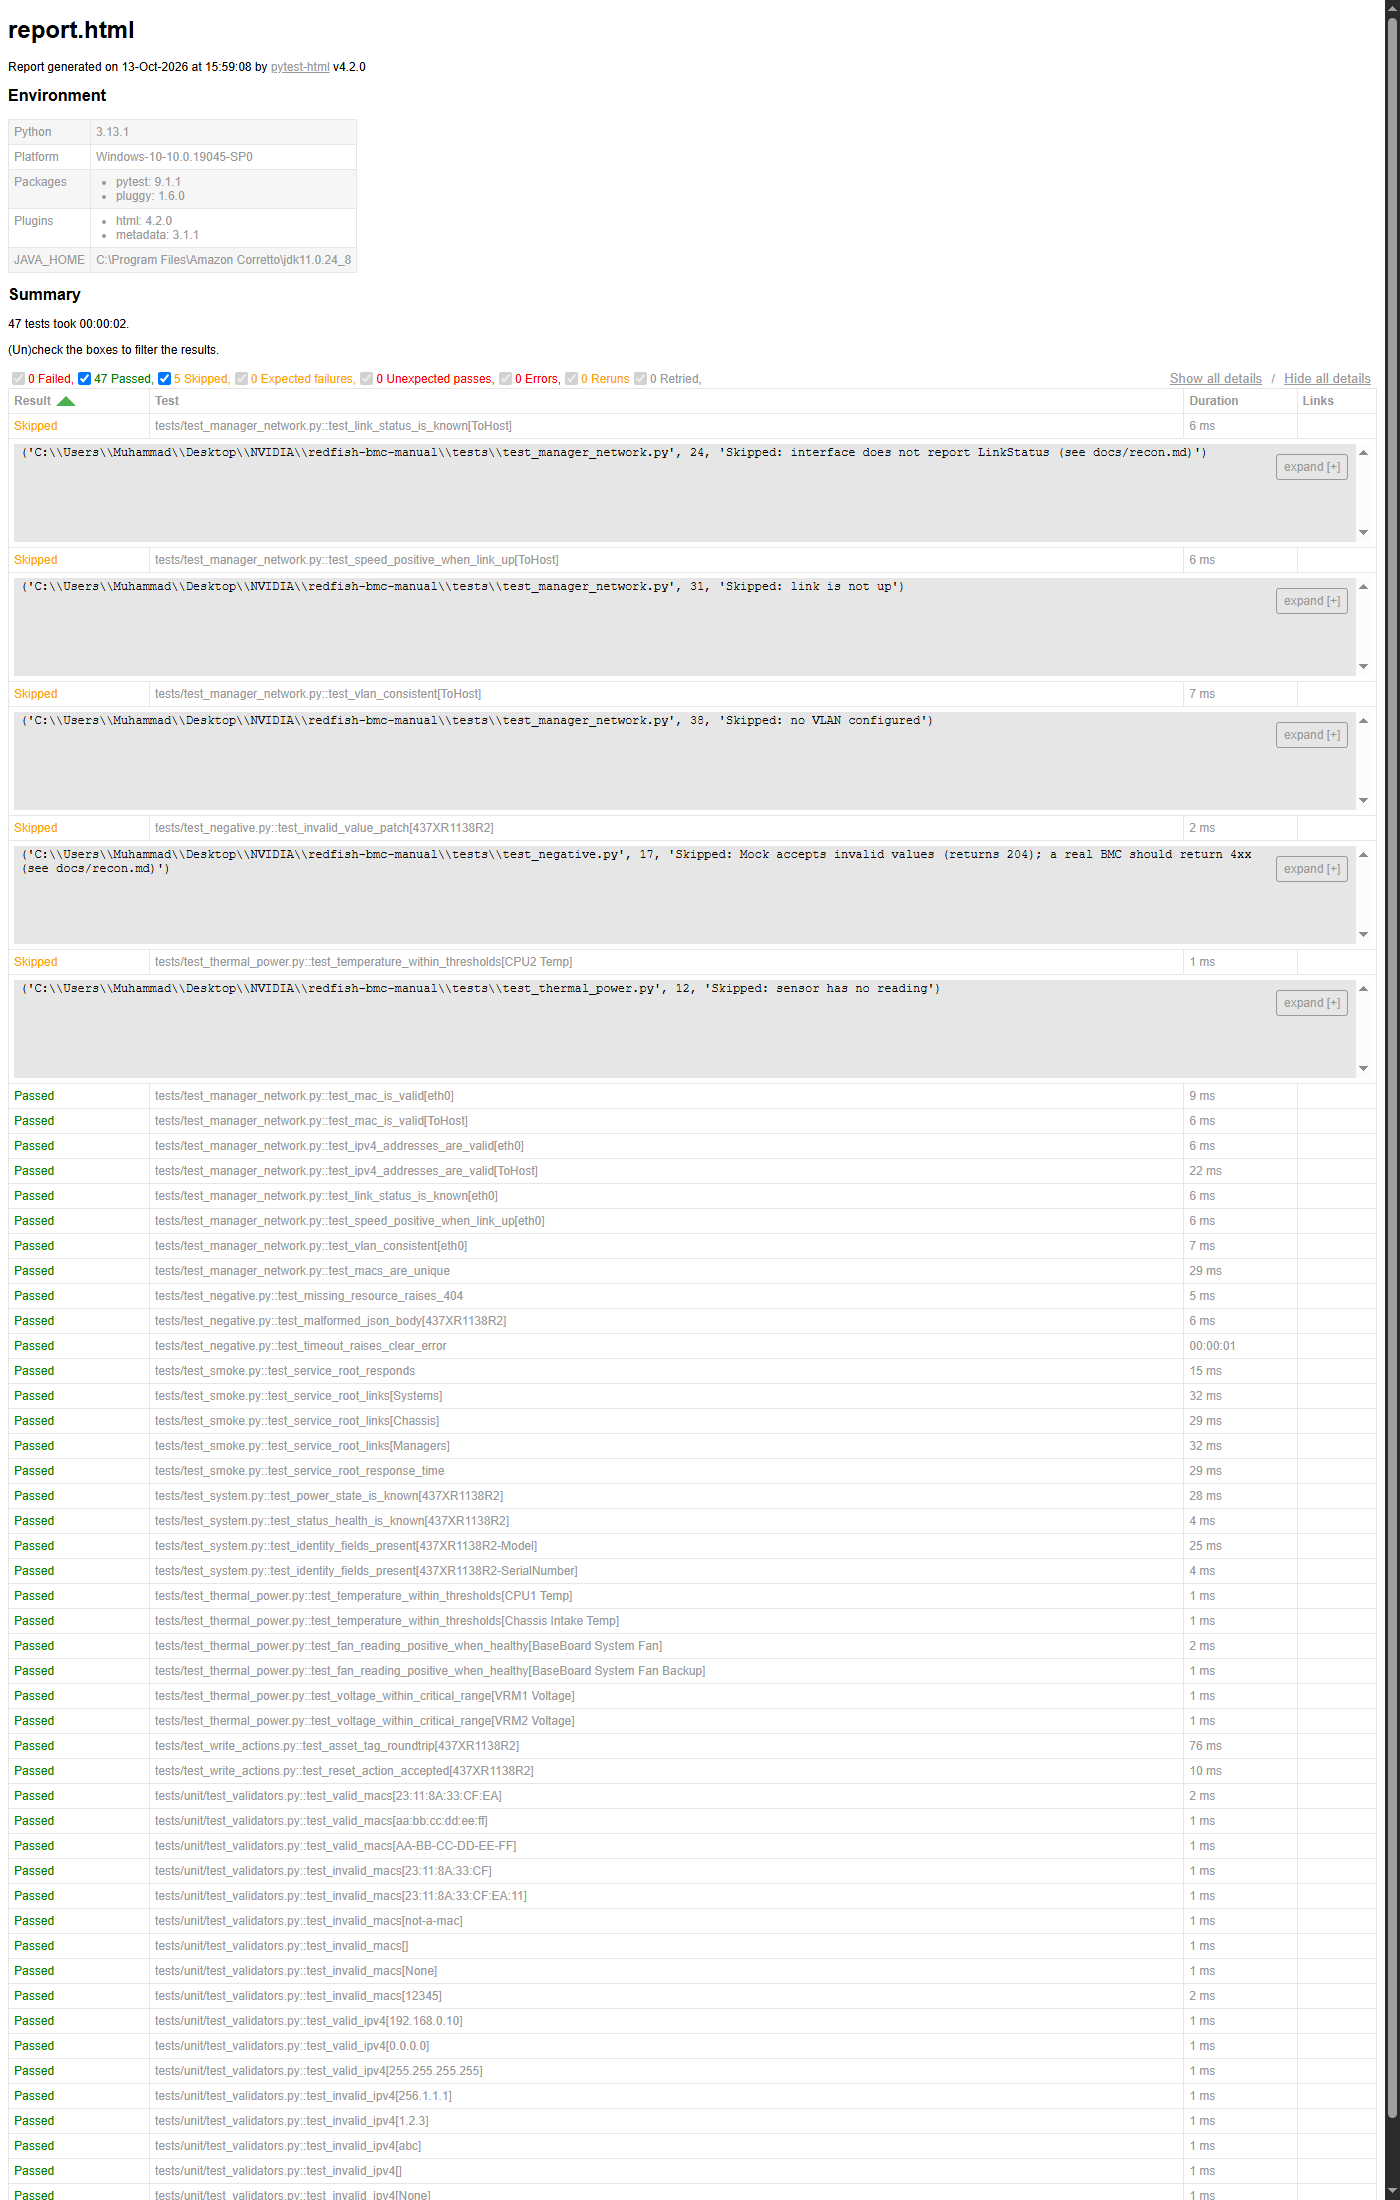
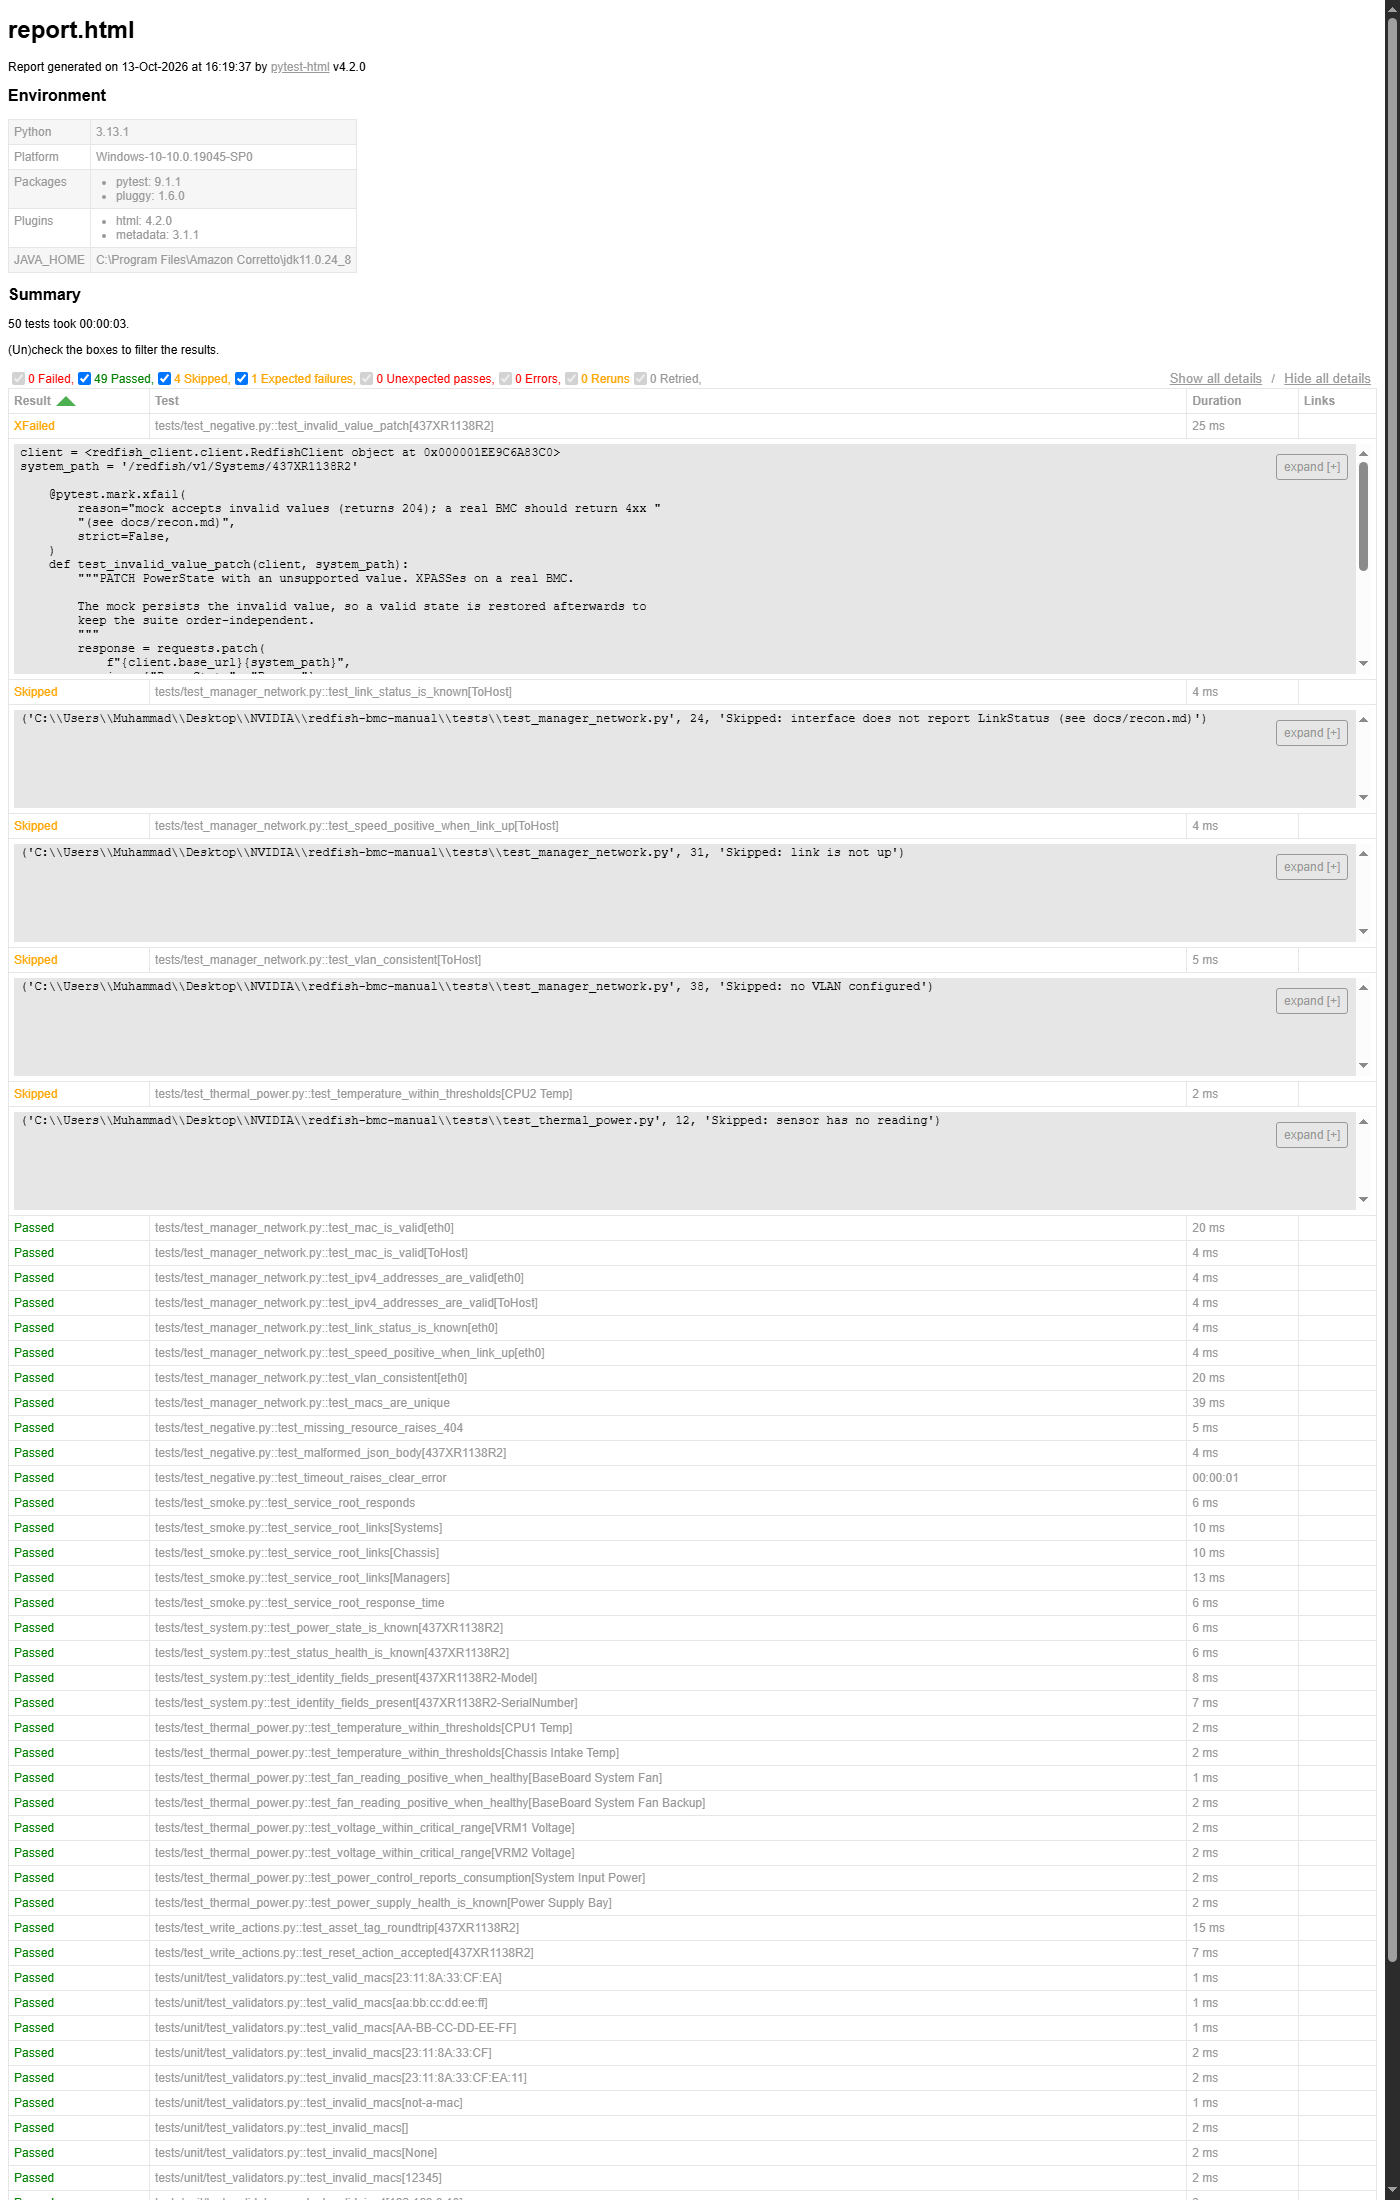
address review: auth/TLS support, PATCH invalid-value xfail with cleanup, power consumption + PSU tests, recon doc, MIT license, pinned deps, strict markers

diff --git a/tests/conftest.py b/tests/conftest.py
@@ -70,6 +70,20 @@ def pytest_unconfigure(config):
             process.kill()
 
 
+def _client_auth():
+    user = os.environ.get("BMC_USER")
+    password = os.environ.get("BMC_PASSWORD")
+    return (user, password) if user is not None else None
+
+
+def _verify_tls():
+    return os.environ.get("BMC_VERIFY_TLS", "true").lower() in ("1", "true", "yes")
+
+
+def _make_client(url):
+    return RedfishClient(url, auth=_client_auth(), verify=_verify_tls())
+
+
 def _short_id(path):
     return path.rstrip("/").rsplit("/", 1)[-1]
 
@@ -85,11 +99,13 @@ def pytest_generate_tests(metafunc):
         "temperature",
         "fan",
         "voltage",
+        "power_control",
+        "power_supply",
     }
     if not (names & interesting):
         return
 
-    client = RedfishClient(_base_url())
+    client = _make_client(_base_url())
 
     if "system_path" in names:
         paths = client.members("/redfish/v1/Systems")
@@ -139,6 +155,25 @@ def pytest_generate_tests(metafunc):
             ids=[v.get("Name", str(i)) for i, v in enumerate(voltages)],
         )
 
+    if "power_control" in names or "power_supply" in names:
+        controls, supplies = [], []
+        for chassis in client.members("/redfish/v1/Chassis"):
+            power = client.get(f"{chassis}/Power")
+            controls += power.get("PowerControl", [])
+            supplies += power.get("PowerSupplies", [])
+        if "power_control" in names:
+            metafunc.parametrize(
+                "power_control",
+                controls,
+                ids=[c.get("Name", str(i)) for i, c in enumerate(controls)],
+            )
+        if "power_supply" in names:
+            metafunc.parametrize(
+                "power_supply",
+                supplies,
+                ids=[s.get("Name", str(i)) for i, s in enumerate(supplies)],
+            )
+
 
 @pytest.fixture(scope="session")
 def bmc_url():
@@ -147,4 +182,4 @@ def bmc_url():
 
 @pytest.fixture(scope="session")
 def client(bmc_url):
-    return RedfishClient(bmc_url)
+    return _make_client(bmc_url)

diff --git a/tests/test_negative.py b/tests/test_negative.py
@@ -13,11 +13,26 @@ def test_missing_resource_raises_404(client):
     assert "404" in str(exc.value)
 
 
+@pytest.mark.xfail(
+    reason="mock accepts invalid values (returns 204); a real BMC should return 4xx "
+    "(see docs/recon.md)",
+    strict=False,
+)
 def test_invalid_value_patch(client, system_path):
-    pytest.skip(
-        "Mock accepts invalid values (returns 204); a real BMC should return 4xx "
-        "(see docs/recon.md)"
+    """PATCH PowerState with an unsupported value. XPASSes on a real BMC.
+
+    The mock persists the invalid value, so a valid state is restored afterwards to
+    keep the suite order-independent.
+    """
+    response = requests.patch(
+        f"{client.base_url}{system_path}",
+        json={"PowerState": "Banana"},
+        timeout=5,
     )
+    try:
+        assert 400 <= response.status_code < 500
+    finally:
+        client.patch(system_path, {"PowerState": "On"})
 
 
 def test_malformed_json_body(client, system_path):

diff --git a/tests/test_thermal_power.py b/tests/test_thermal_power.py
@@ -32,3 +32,15 @@ def test_voltage_within_critical_range(voltage):
         minimum=voltage.get("LowerThresholdCritical"),
         maximum=voltage.get("UpperThresholdCritical"),
     )
+
+
+def test_power_control_reports_consumption(power_control):
+    name = power_control.get("Name", "power control")
+    assert power_control.get("PowerConsumedWatts", 0) >= 0, name
+
+
+def test_power_supply_health_is_known(power_supply):
+    health = power_supply.get("Status", {}).get("Health")
+    assert health in {"OK", "Warning", "Critical"}, (
+        f"unexpected power supply health: {health!r}"
+    )

diff --git a/src/redfish_client/client.py b/src/redfish_client/client.py
@@ -7,10 +7,12 @@ class RedfishClientError(Exception):
 
 
 class RedfishClient:
-    def __init__(self, base_url, timeout=10, session=None):
+    def __init__(self, base_url, timeout=10, auth=None, verify=True, session=None):
         self.base_url = base_url.rstrip("/")
         self.timeout = timeout
         self.session = session or requests.Session()
+        self.session.auth = auth
+        self.session.verify = verify
 
     def _url(self, path):
         if path.startswith("http"):

diff --git a/tests/test_write_actions.py b/tests/test_write_actions.py
@@ -18,5 +18,9 @@ def test_asset_tag_roundtrip(client, system_path):
 
 
 def test_reset_action_accepted(client, system_path):
-    target = client.get(system_path)["Actions"]["#ComputerSystem.Reset"]["target"]
+    reset = client.get(system_path)["Actions"]["#ComputerSystem.Reset"]
+    target = reset["target"]
+    allowed = reset.get("ResetType@Redfish.AllowableValues")
+    if allowed:
+        assert "On" in allowed
     client.post(target, {"ResetType": "On"})

diff --git a/docs/recon.md b/docs/recon.md
@@ -1,0 +1,91 @@
+# Recon — DMTF Redfish Mockup Server
+
+Manual exploration of the mock BMC before writing any tests, so the suite matches the
+real data shapes. Server: `redfishMockupServer.py` (DMTF Redfish-Mockup-Server), mockup
+`public-rackmount1`, `http://127.0.0.1:8000`. RedfishVersion `1.15.0`.
+
+## Resource tree (discovered by following links from `/redfish/v1`)
+
+```
+/redfish/v1
+├── Systems            -> /redfish/v1/Systems/437XR1138R2        (Contoso 3500, PowerState On)
+├── Chassis            -> /redfish/v1/Chassis/1U                 (RackMount)
+│     ├── Thermal      -> .../Thermal   (2 fans, 3 temp sensors)
+│     └── Power        -> .../Power     (PowerControl, 1 supply, 2 voltages)
+├── Managers           -> /redfish/v1/Managers/BMC               (ManagerType BMC)
+│     └── EthernetInterfaces -> .../EthernetInterfaces/{eth0, ToHost}
+├── AccountService, CertificateService, EventService, UpdateService, ...
+```
+
+Resource IDs are **not** hard-coded in tests: they are discovered from the collection
+`Members` arrays so the same tests can run against real hardware.
+
+## Key fields per resource (used by the tests)
+
+**System `/redfish/v1/Systems/437XR1138R2`**
+- `PowerState`: `"On"`. Per the Redfish spec `PowerState` can be `On`, `Off`,
+  `PoweringOn`, or `PoweringOff`; the test asserts membership in exactly that set.
+- Reset action allowable values from `Actions.#ComputerSystem.Reset`:
+  On, ForceOff, GracefulShutdown, GracefulRestart, ForceRestart, Nmi, ForceOn,
+  PushPowerButton
+- `Status.Health`: `"OK"`, `Status.State`: `"Enabled"`
+- `Model`: `"3500"`, `SerialNumber`: `"437XR1138R2"`, `Manufacturer`: `"Contoso"`
+- `AssetTag`: `"Chicago-45Z-2381"` (writable — see write check)
+- Reset action target: `/redfish/v1/Systems/437XR1138R2/Actions/ComputerSystem.Reset`
+
+**Manager `/redfish/v1/Managers/BMC`**
+- `ManagerType`: `"BMC"`, `FirmwareVersion`: `"1.45.455b66-rev4"`
+- `Status.Health`: `"OK"`, `PowerState`: `"On"`
+
+**Manager Ethernet interfaces**
+
+| Field | eth0 | ToHost |
+| --- | --- | --- |
+| `MACAddress` | `23:11:8A:33:CF:EA` | `AA:BB:CC:DD:EE:FF` |
+| `IPv4Addresses[0].Address` | `192.168.0.10` | `192.168.20.55` |
+| `LinkStatus` | `LinkUp` | **(absent)** |
+| `SpeedMbps` | `100` | `100` |
+| `VLAN` | `{VLANEnable:true, VLANId:101}` | *(absent)* |
+| `Status.Health` | `OK` | `OK` |
+
+**Thermal `/redfish/v1/Chassis/1U/Thermal`**
+- `Fans`: 2 entries, `Reading` 2100/2050 RPM, `ReadingUnits` `RPM`, `Status.Health` OK
+- `Temperatures`: 3 entries — CPU1 (ReadingCelsius 41, health OK), CPU2
+  (`Status.State: Disabled`, no reading), Chassis Intake (25, OK)
+- Thresholds present: `UpperThresholdCritical`/`Fatal`/`NonCritical`, `LowerThreshold*`
+
+**Power `/redfish/v1/Chassis/1U/Power`**
+- `PowerControl[0]`: `PowerConsumedWatts` 344, capacity 800
+- `PowerSupplies[0]`: `Status.Health` **`"Warning"`** (not OK), 800W
+- `Voltages`: 2 entries, `ReadingVolts` 12 and 5, health OK
+
+## Write check (PATCH / POST) — done in recon, not deferred
+
+| Operation | Request | Result |
+| --- | --- | --- |
+| PATCH AssetTag | `{"AssetTag":"QA-TEST-TAG"}` | **204**, value persisted (read back confirmed), then restored to original |
+| PATCH value validation | `{"PowerState":"Banana"}` | **204** — mock accepts invalid values, does **not** schema-validate |
+| POST Reset action | `{"ResetType":"On"}` | **204** |
+| GET missing resource | `/redfish/v1/Systems/DOES-NOT-EXIST` | **404** |
+| Malformed JSON body | `{bad json` | **400** |
+
+### Consequences for the test plan
+- `write` tests are viable: PATCH persists and can be restored; POST Reset returns 204.
+- Negative "PATCH invalid value returns 4xx" does **not** fail on the mock (returns 204).
+  A real BMC would reject it, so that case is marked `xfail` with the documented mock
+  limitation and will XPASS on hardware.
+- `ToHost` has no `LinkStatus` field. A test requiring `LinkStatus` on *every* interface
+  must handle the absent field (conditional / documented), not assume it.
+- `PowerSupplies[0].Status.Health` is `"Warning"` in the mock data. Assertions about
+  "health is OK" must be scoped (e.g. fans, not power supplies) or aware of this value,
+  which is a valid Redfish health state.
+
+## Reproduction
+
+```powershell
+# from the Redfish-Mockup-Server clone
+python redfishMockupServer.py -H 127.0.0.1 -p 8000
+```
+
+The mock supports PATCH/POST "to a limited extent" (its README). Findings above reflect
+the `public-rackmount1` mockup shipped in the cloned revision.

diff --git a/README.md b/README.md
@@ -32,13 +32,15 @@ the validators hold the checks (MAC, IP, ranges); the tests only describe what s
 - **Network** - each BMC Ethernet interface has a valid, unique MAC, valid IPv4, a known link
   status, positive speed when up, and consistent VLAN settings.
 - **Thermal and power** - temperatures within thresholds, fans spinning when healthy,
-  voltages within range.
+  voltages within range, power consumption reported, and power supply health is a valid state.
 - **Write and actions** - PATCH the system AssetTag and restore it; POST a Reset action.
 - **Negative** - missing resources, malformed JSON and timeouts fail clearly, never hang.
 
 ## How to run
 
-```bash
+**Windows (PowerShell):**
+
+```powershell
 python -m venv .venv
 .venv\Scripts\activate
 pip install -r requirements.txt
@@ -46,18 +48,38 @@ git clone --depth 1 https://github.com/DMTF/Redfish-Mockup-Server.git ../Redfish
 pytest
 ```
 
-Point it at a real BMC by setting the base URL:
+**macOS / Linux:**
+
+```bash
+python3 -m venv .venv
+source .venv/bin/activate
+pip install -r requirements.txt
+git clone --depth 1 https://github.com/DMTF/Redfish-Mockup-Server.git ../Redfish-Mockup-Server
+pytest
+```
+
+Point the same suite at a real BMC. On Linux/macOS:
 
 ```bash
 BMC_URL=https://my-bmc.example.com pytest
 ```
 
+On Windows PowerShell:
+
+```powershell
+$env:BMC_URL="https://my-bmc.example.com"; pytest
+```
+
+Real BMCs usually need credentials and often use a self-signed certificate, so the client
+also reads `BMC_USER`, `BMC_PASSWORD`, and `BMC_VERIFY_TLS=false`.
+
 Run one category with markers: `pytest -m smoke`, `pytest -m network`, etc.
 
 ## Sample report
 
-`pytest` writes an HTML report to `reports/report.html`. A copy from a local run (47 passed,
-5 skipped - the skips are documented mock limitations):
+`pytest` writes an HTML report to `reports/report.html`. A copy from a local run (49 passed,
+4 skipped, 1 xfailed - the skips are documented mock limitations; the xfail is a known bug:
+the mock accepts an invalid `PowerState` instead of returning a 4xx):
 
 ![Sample pytest report](docs/report-screenshot.png)
 
